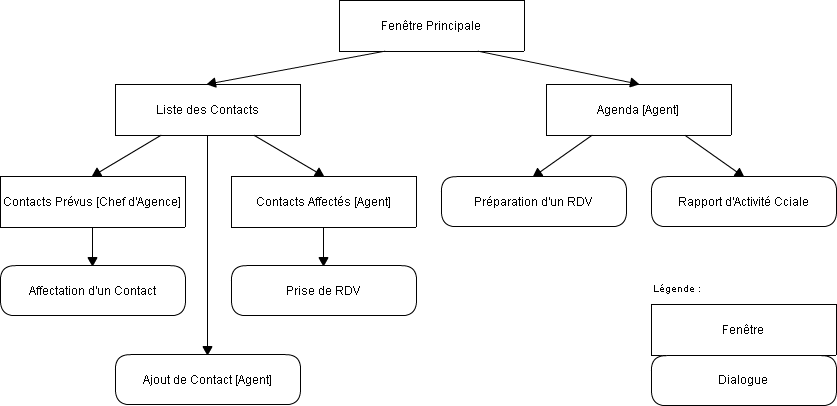
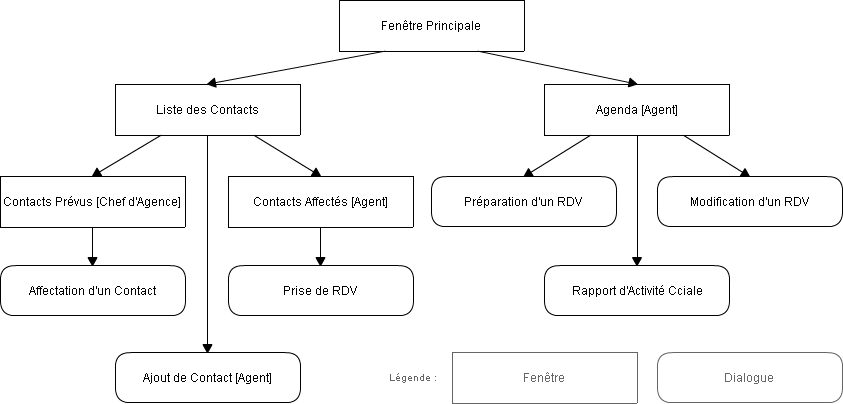
[conception-detaillee] Update diagramme-edf

diff --git a/livrables/compte-rendu/conception-detaillee.tex b/livrables/compte-rendu/conception-detaillee.tex
@@ -8,3 +8,10 @@
 \begin {center}
 \includegraphics[width=\textwidth]{diagramme-edf.png}
 \end {center}
+
+La fenêtre principale présente deux onglets principaux :
+
+\begin{itemize}
+\item La Liste des Contacts : Si l'utilisateur est le chef d'agence, elle montre tous les contacts prévus et permet de les affecter à des agents, sinon elle montre simplement les contacts affectés à un agent et permet de prendre Rendez-Vous avec le client. Suite à la demande d'un client, un agent peut également ajouter un contact manuellement.
+\item L'Agenda : Il permet de situer les Rendez-Vous dans le temps grâce à une vue calendaire paramétrable. Un Rendez-Vous peut être modifié, préparé, et une fois qu'il a été effectué, l'interface permet de rédiger un Rapport d'Activité Commerciale pour cloturer le contact.
+\end{itemize}
